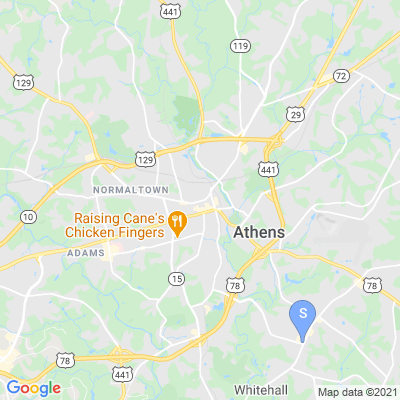
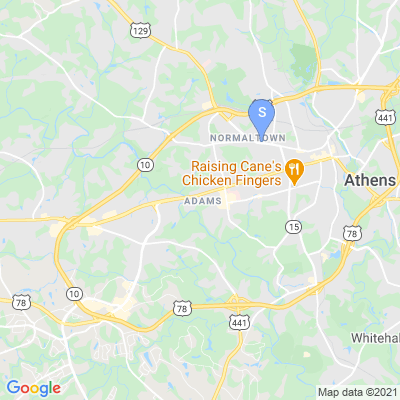
added address

diff --git a/proto.py b/proto.py
@@ -64,11 +64,13 @@ def mapRequest(master):
     key = "AIzaSyC1YvHmJqbzSCpLIJ9dJz-CP5SKnxxeqm4"
     findATM = "https://maps.googleapis.com/maps/api/place/findplacefromtext/json?input=ATM&inputtype=textquery&fields=formatted_address&locationbias=circle:8000@" + centerSearch + "&key=" + key
     response = requests.get(findATM)
+    address = response.json()['candidates'][0]['formatted_address']
     markers = "color:blue%7Clabel:S%7C " + response.json()['candidates'][0]['formatted_address']
     response = requests.get("https://maps.googleapis.com/maps/api/staticmap?center=" + center + "&zoom=" + str(zoom) + "&size=" + size + "&markers=" + markers + "&key=" + key)
     if response.status_code == 200:
         with open("./map.jpg", 'wb') as f:
             f.write(response.content)
+            return address
 
 class ATM(Tk):
     def __init__(self):
@@ -129,9 +131,13 @@ class ATM(Tk):
         im_ncr = ImageTk.PhotoImage(ncr)
         self.ncr_img = im_ncr
         cancel = Image.open("resources/cancel.png")
-        cancel = cancel.resize((250,60), Image.ANTIALIAS)
+        cancel = cancel.resize((200,50), Image.ANTIALIAS)
         im_cancel = ImageTk.PhotoImage(cancel)
         self.cancel_img = im_cancel
+        finish = Image.open("resources/finish.png")
+        finish = finish.resize((200,50), Image.ANTIALIAS)
+        im_finish = ImageTk.PhotoImage(finish)
+        self.finish_img = im_finish
 
 
 class frameWelcome(Frame):
@@ -151,26 +157,28 @@ class frameHome(Frame):
         hello2.pack()
         Label(self,text="ACCOUNT INFORMATION",font=('arial', '22'),fg="#616161",bg="white").pack(anchor="w",pady=25,padx=(10,0))
         Label(self,text="CHECKING 1234",font=('arial', '18'),bg="white").pack(anchor="w",padx=25)
-        Label(self,text="Balance: -------------------------          " + str(master.check_balance),font=('arial', '16'),bg="white").pack(anchor="w",padx=25)
+        Label(self,text="Balance: -------------------------          %1.2f" %(master.check_balance),font=('arial', '16'),bg="white").pack(anchor="w",padx=25)
         Label(self,text="INVESTING 1234",font=('arial', '18'),bg="white").pack(anchor="w",pady=(50,0),padx=25)
-        Label(self,text="Balance: -------------------------          " + str(master.invest_balance),font=('arial', '16'),bg="white").pack(anchor="w",padx=25)
+        Label(self,text="Balance: -------------------------          %1.2f" %(master.invest_balance),font=('arial', '16'),bg="white").pack(anchor="w",padx=25)
         Label(self,text="LOANS 1234",font=('arial', '18'),bg="white").pack(anchor="w",pady=(50,0),padx=25)
-        Label(self,text="Balance: -------------------------          " + str(master.loan_balance),font=('arial', '16'),bg="white").pack(anchor="w",padx=25)
-        Button(self, image=master.select_img,command=lambda:master.switch_frame(frameMap),font=('arial', '12'),borderwidth=0,activebackground="white",bg='white').pack(pady=(225,0))
+        Label(self,text="Balance: -------------------------          %1.2f" %(master.loan_balance),font=('arial', '16'),bg="white").pack(anchor="w",padx=25)
+        Button(self, image=master.select_img,command=lambda:master.switch_frame(frameMap),font=('arial', '12'),borderwidth=0,activebackground="white",bg='white').pack(pady=(210,0))
 
 
 # Frame for selecting action to perform at the ATM
 class frameMap(Frame):
     def __init__(self,master):
+        self.address = ""
         Frame.__init__(self,master,bg="white")
         Label(self,image=master.ncr_img, width=300, bg="#51B948",font=('arial', '35', 'bold')).pack(fill="x",ipady=10)
         Button(self, text="Back", command=lambda:master.switch_frame(frameHome),font=('arial', '12'),borderwidth=0,activebackground="white",bg='white').pack(anchor="w")
-        prompt = Message(self, text="Nearest ATM Machines:", font=('arial', '24'),width=400,bg="white").pack(pady=50)
+        prompt = Message(self, text="Nearest ATM Machine:", font=('arial', '24'),width=400,bg="white").pack(pady=50)
         self.initMap(master)
         Label(self,image=master.map).pack()
-        Button(self, image=master.select_img,command=lambda:master.switch_frame(frameATMAction),font=('arial', '12'),borderwidth=0,activebackground="white",bg='white').pack(pady=(62,0))
+        Label(self,text=self.address,bg="white",font=('arial', '12')).pack()
+        Button(self, image=master.select_img,command=lambda:master.switch_frame(frameATMAction),font=('arial', '12'),borderwidth=0,activebackground="white",bg='white').pack(pady=(25,0))
     def initMap(self,master):
-        mapRequest(master)
+        self.address = mapRequest(master)
         login = Image.open("map.jpg")
         login = login.resize((400,400), Image.ANTIALIAS) ## The (250, 250) is (height, width
         im_login = ImageTk.PhotoImage(login)
@@ -205,6 +213,7 @@ class frameQR(Frame):
         self.initQR(master)
         Message(self, text="Please scan this QR code at the ATM you have selected.",width=300,font=('arial', '24'),bg="white").pack(pady=(50,10))
         Label(self,image=master.qr_img).pack()
+        Button(self, image=master.finish_img, command=lambda:master.switch_frame(frameHome),font=('arial', '12'),borderwidth=0,activebackground="white",bg='white').pack(pady=(10,0))
         Button(self, image=master.cancel_img, command=lambda:master.switch_frame(frameATMAction),font=('arial', '12'),borderwidth=0,activebackground="white",bg='white').pack(pady=(10,0))
     def initQR(self,master):
         genQR(master)
